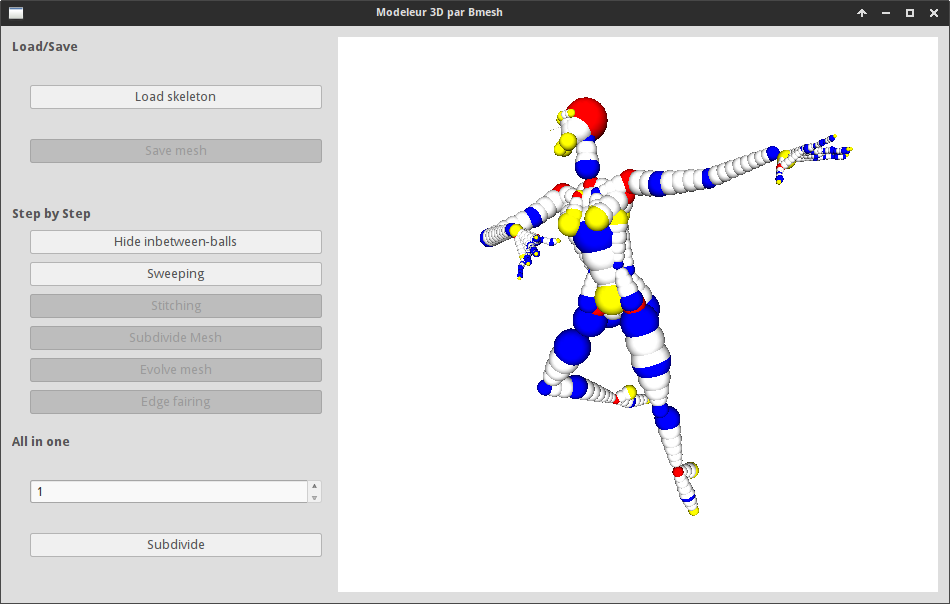
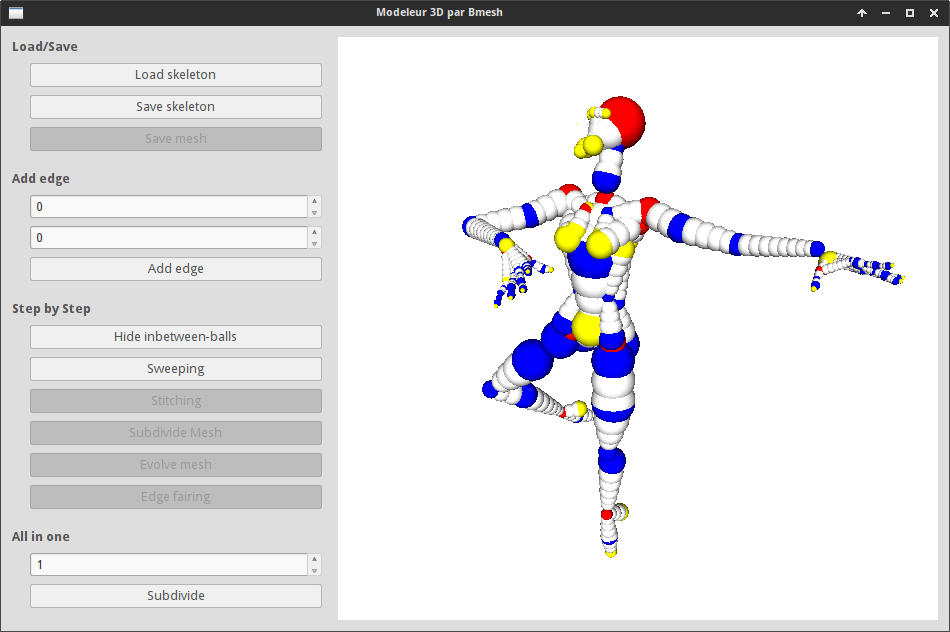
Corrections mineures
Egalement ajout d'un squelette crée interactivement

Changed region(s): [[0.0, 0.0894, 0.3358, 0.9536], [0.4884, 0.149, 0.9463, 0.894], [0.0, 0.0, 1.0, 0.0894]]

diff --git a/src/viewer.cpp b/src/viewer.cpp
@@ -198,6 +198,16 @@ QString Viewer::helpString() const {
     text += "Les différents raccourcis disponibles sont fournis dans les ";
     text += "<b>Keyboard</b> et <b>Mouse</b> de cette aide.";
 
+    text += "<h2>Comment créer un squelette ?</h2>";
+    text += "<ul>";
+    text += "<li><b>Ajouter une sphère: </b>Shift + clic</li>";
+    text += "<li><b>Déplacer une sphère: </b>placer le curseur près du centre \
+             de la sphère et clic droit</li>";
+    text += "<li><b>Augmenter/Diminuer le rayon: </b>Shift + molette près du \
+             centre de la sphère</b></li>";
+    text += "<li><b>Ajouter une arete: </b>Utiliser le menu <b>Add edge</b></li>";
+    text += "</ul>";
+
     return text;
 }
 

diff --git a/src/window.cpp b/src/window.cpp
@@ -226,6 +226,7 @@ void Window::load() {
 
     // We can allow the user to click other buttons
     saveMeshB->setEnabled(false);
+    sweep->setEnabled(true);
     stitch->setEnabled(false);
     catmullClark->setEnabled(false);
     evol->setEnabled(false);
